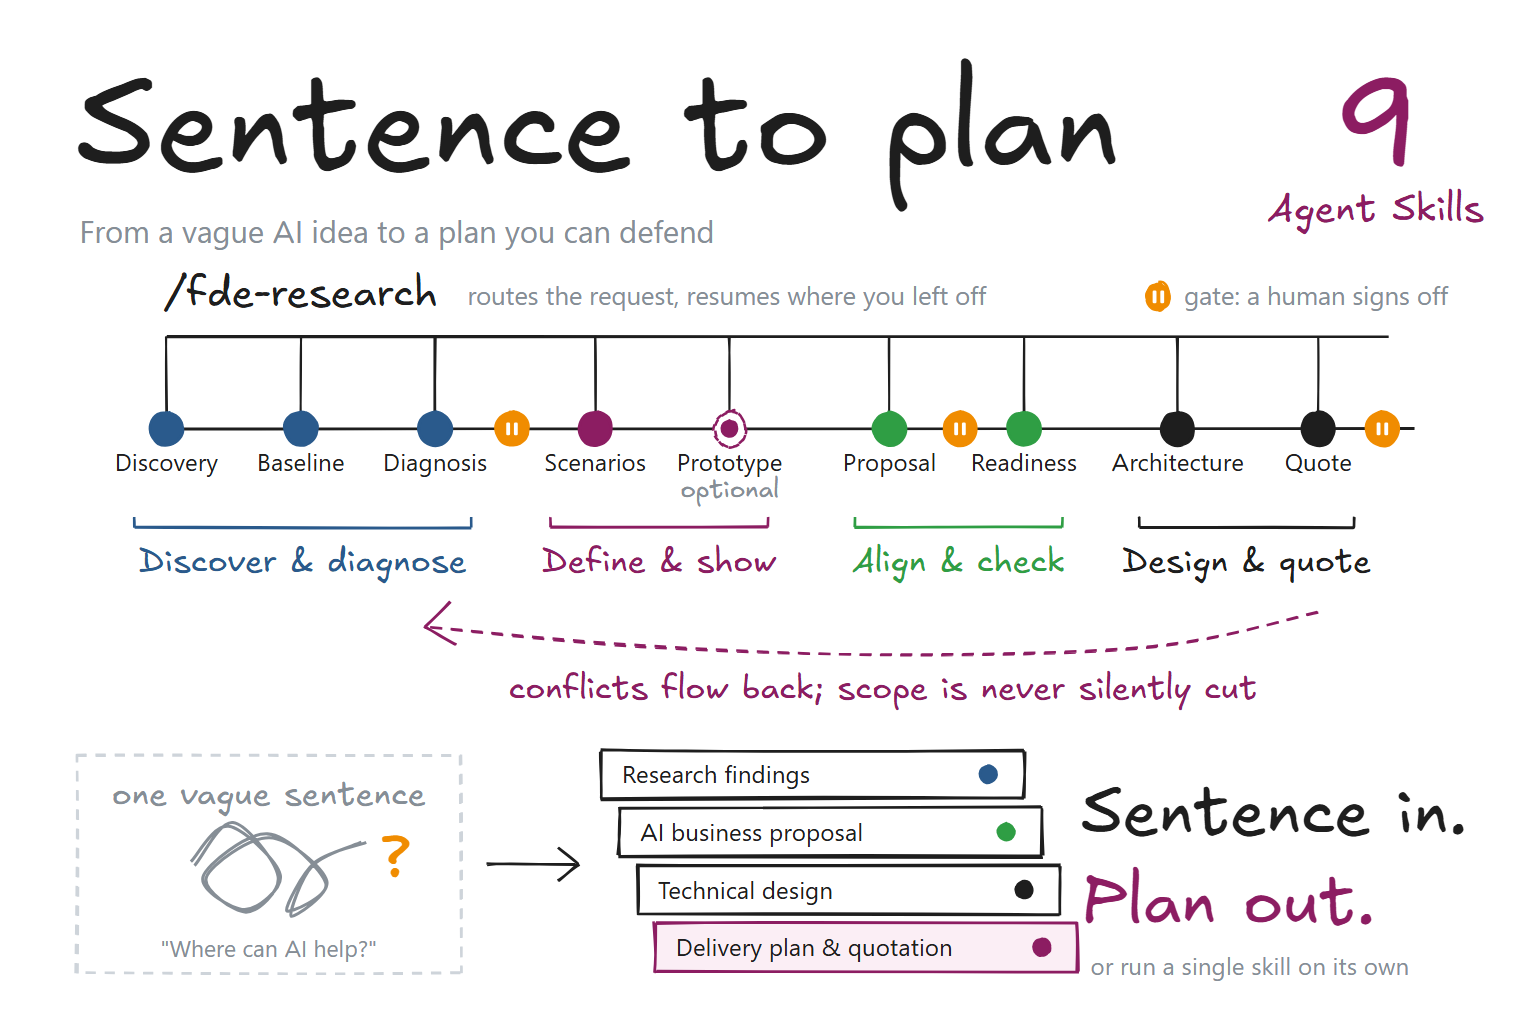
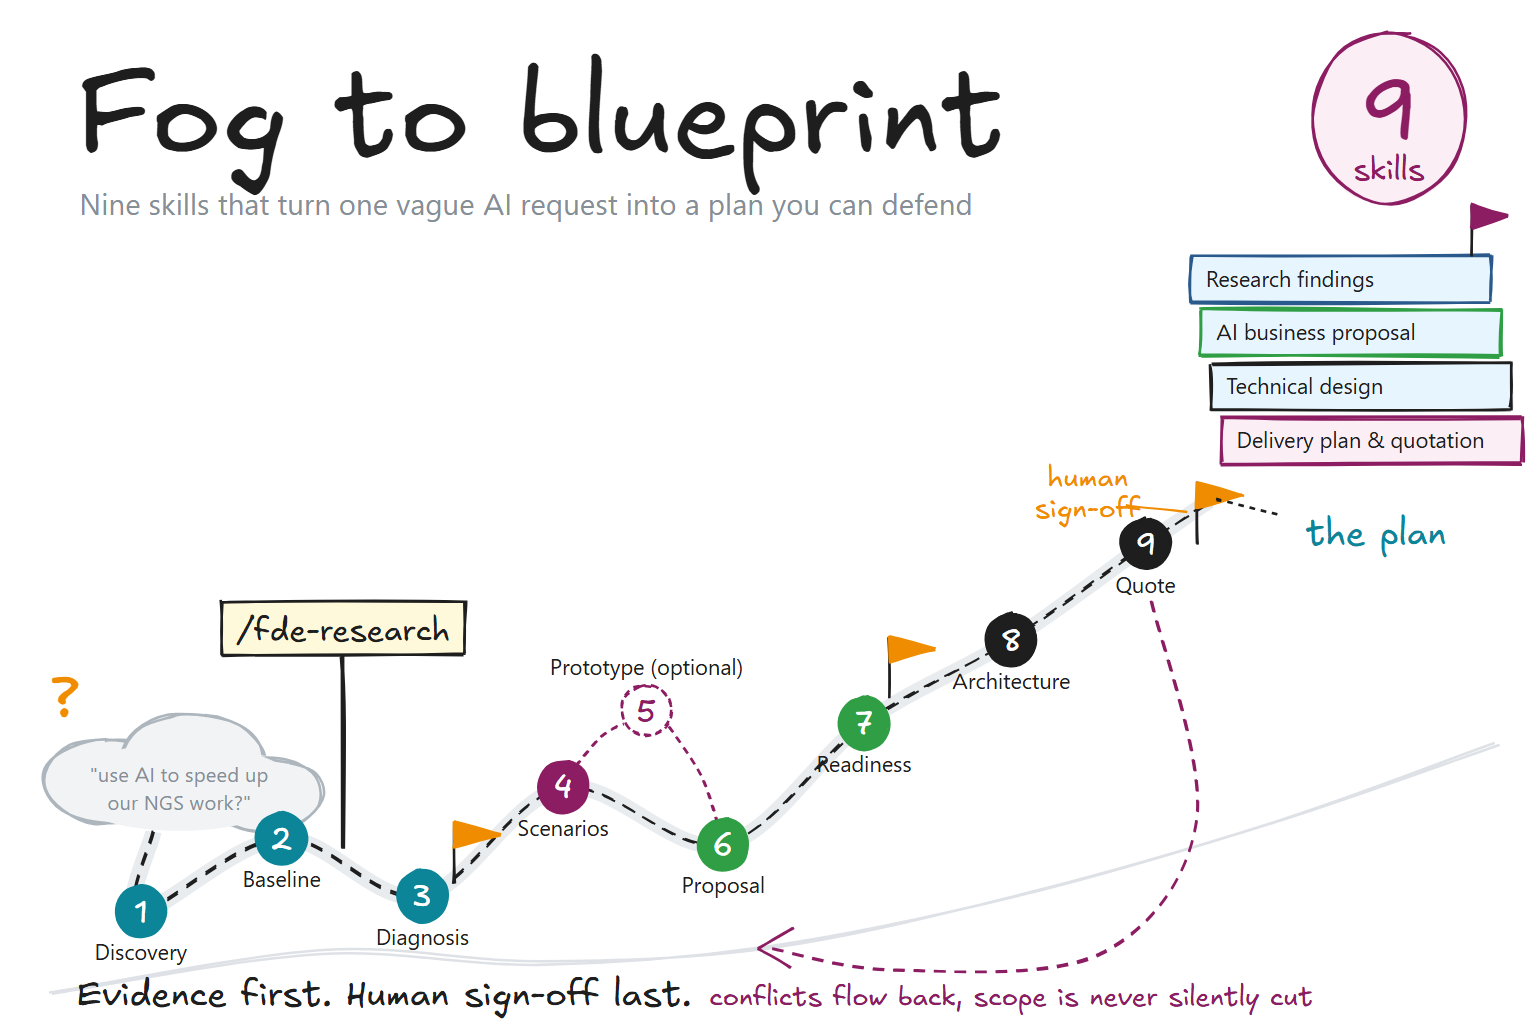
FDE Research: new trail-map cover

diff --git a/_projects/fde-research.md b/_projects/fde-research.md
@@ -10,8 +10,8 @@ keywords: [Enterprise AI]
 stack: [Agent Skills, Claude Code, Python, Markdown]
 status: "Public on GitHub. All rights reserved; no open-source license is granted."
 cover: /assets/img/projects/fde-research.png
-cover_alt: "Hand-drawn graphic: Sentence to plan. Nine agent skills behind the /fde-research entry run from discovery, baseline and diagnosis through AI scenarios, an optional prototype, business proposal and readiness check to architecture and quotation, with human sign-off gates, a loop that sends conflicts back, and four deliverables produced from one vague sentence."
-cover_caption: "Sentence to plan: nine skills, human sign-off gates, and conflicts that flow back instead of being cut."
+cover_alt: "Hand-drawn trail map titled Fog to blueprint: a vague request in a cloud, then a path through eight numbered stones for the nine skills, starting at the /fde-research signpost, with an optional prototype detour, orange human sign-off flags, a dashed loop where conflicts flow back, and four deliverables at the summit."
+cover_caption: "Fog to blueprint: nine skills, human sign-off flags, and conflicts that flow back instead of being cut."
 thumb: /assets/img/projects/fde-research-thumb.webp
 thumb_alt: "Project card graphic: an open binder of research findings, AI scenarios and technical architecture beside interviews, documents and process data, with tabs for research findings, AI business proposal, technical design, and delivery plan and quotation."
 repo: "https://github.com/sys0507/fde-research"
